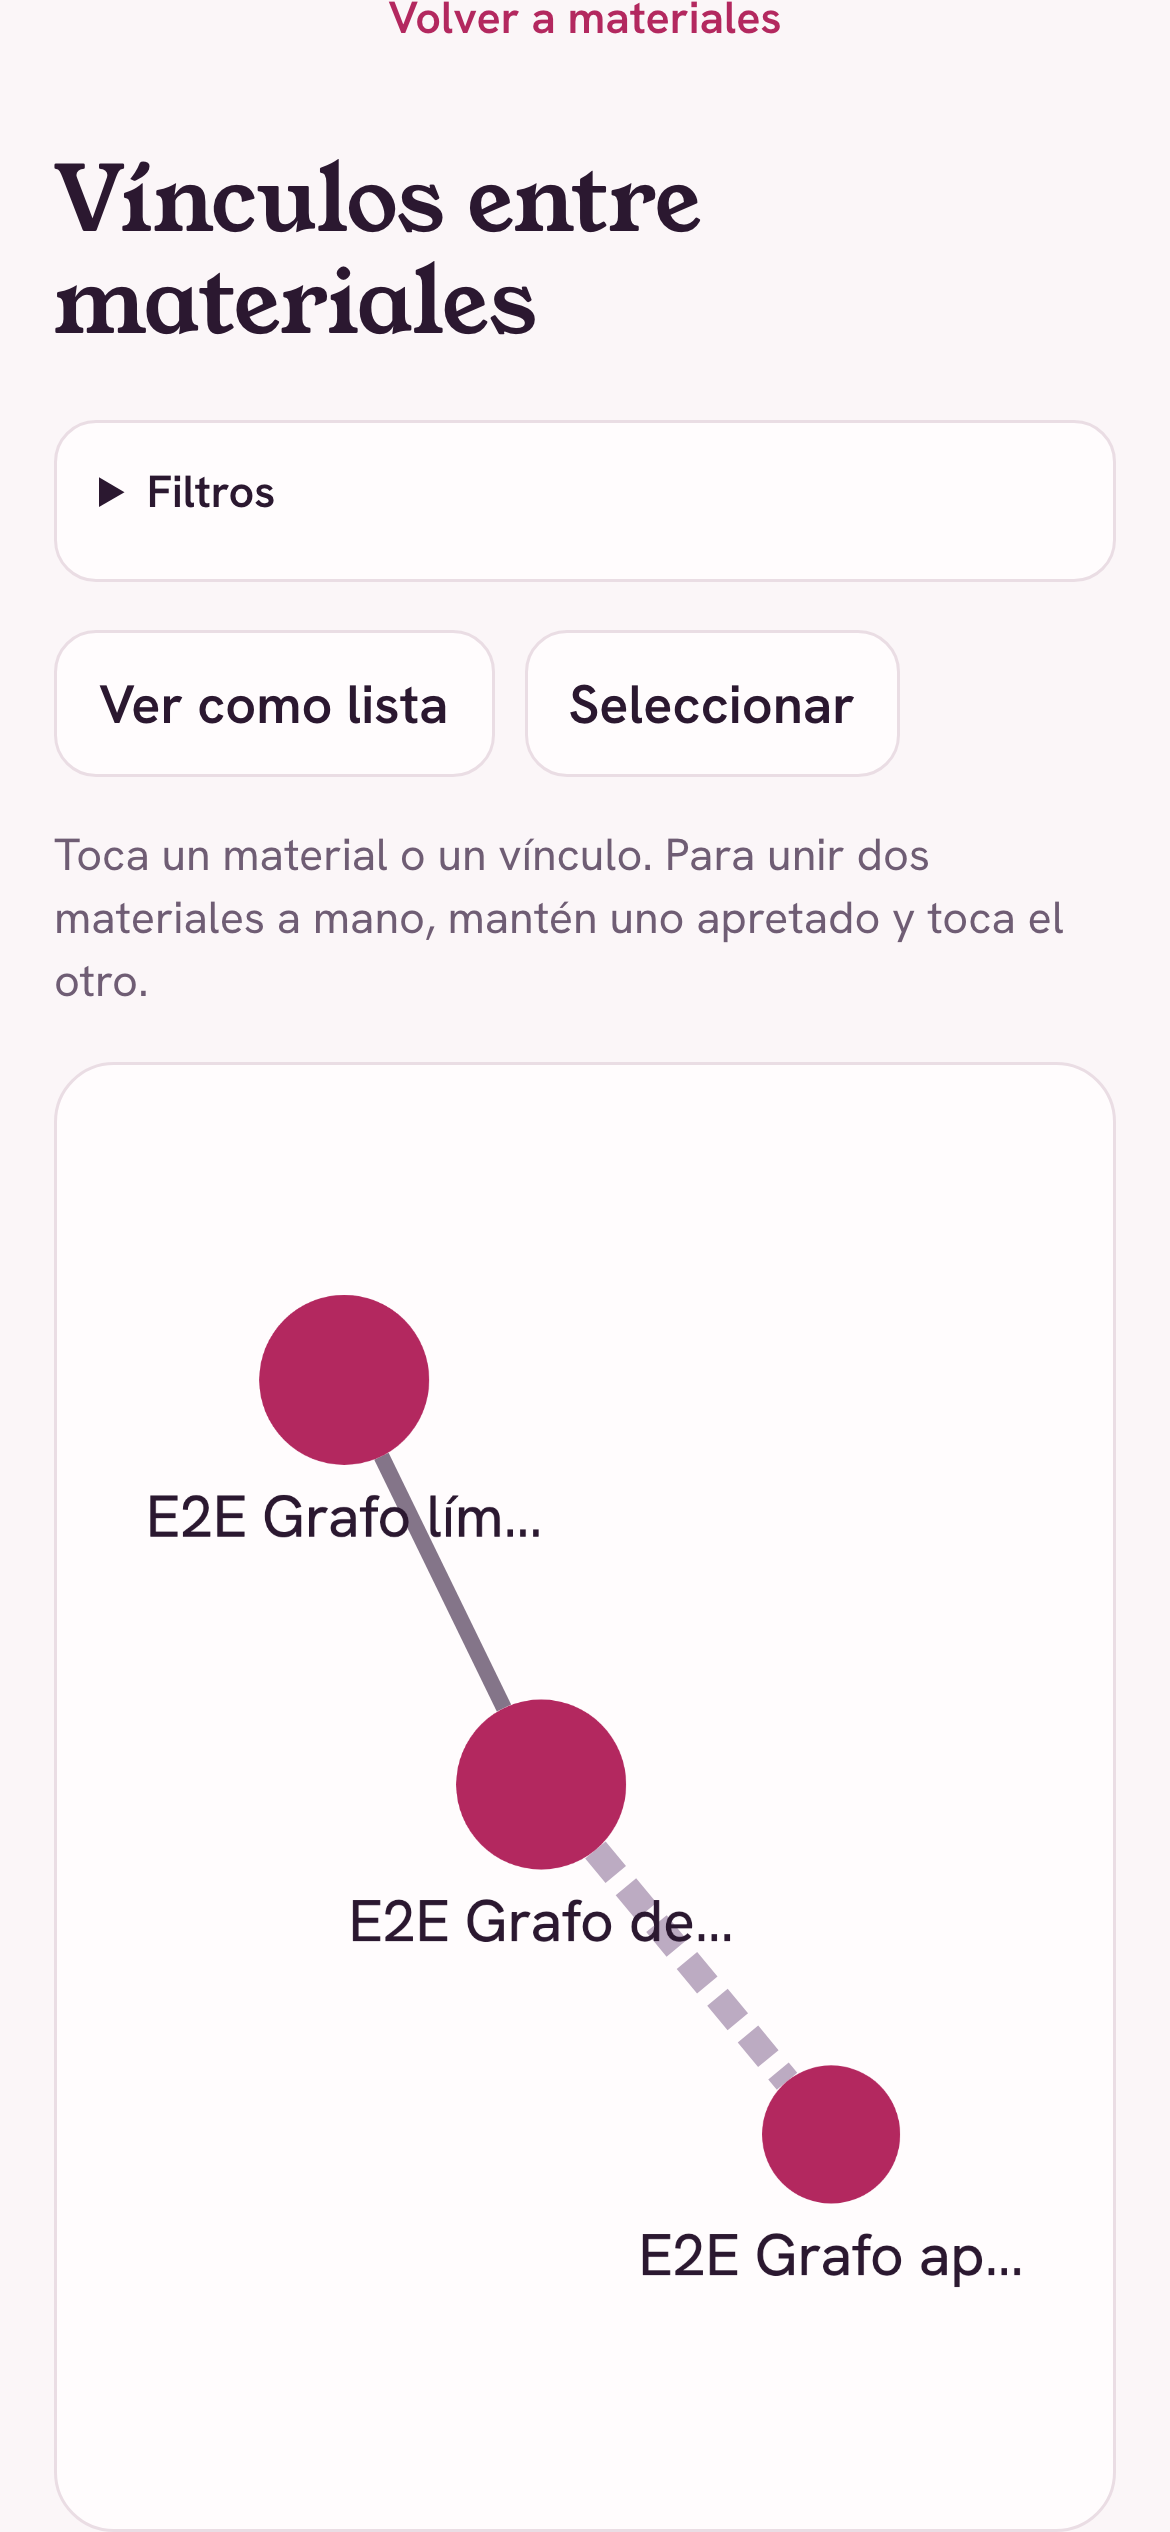
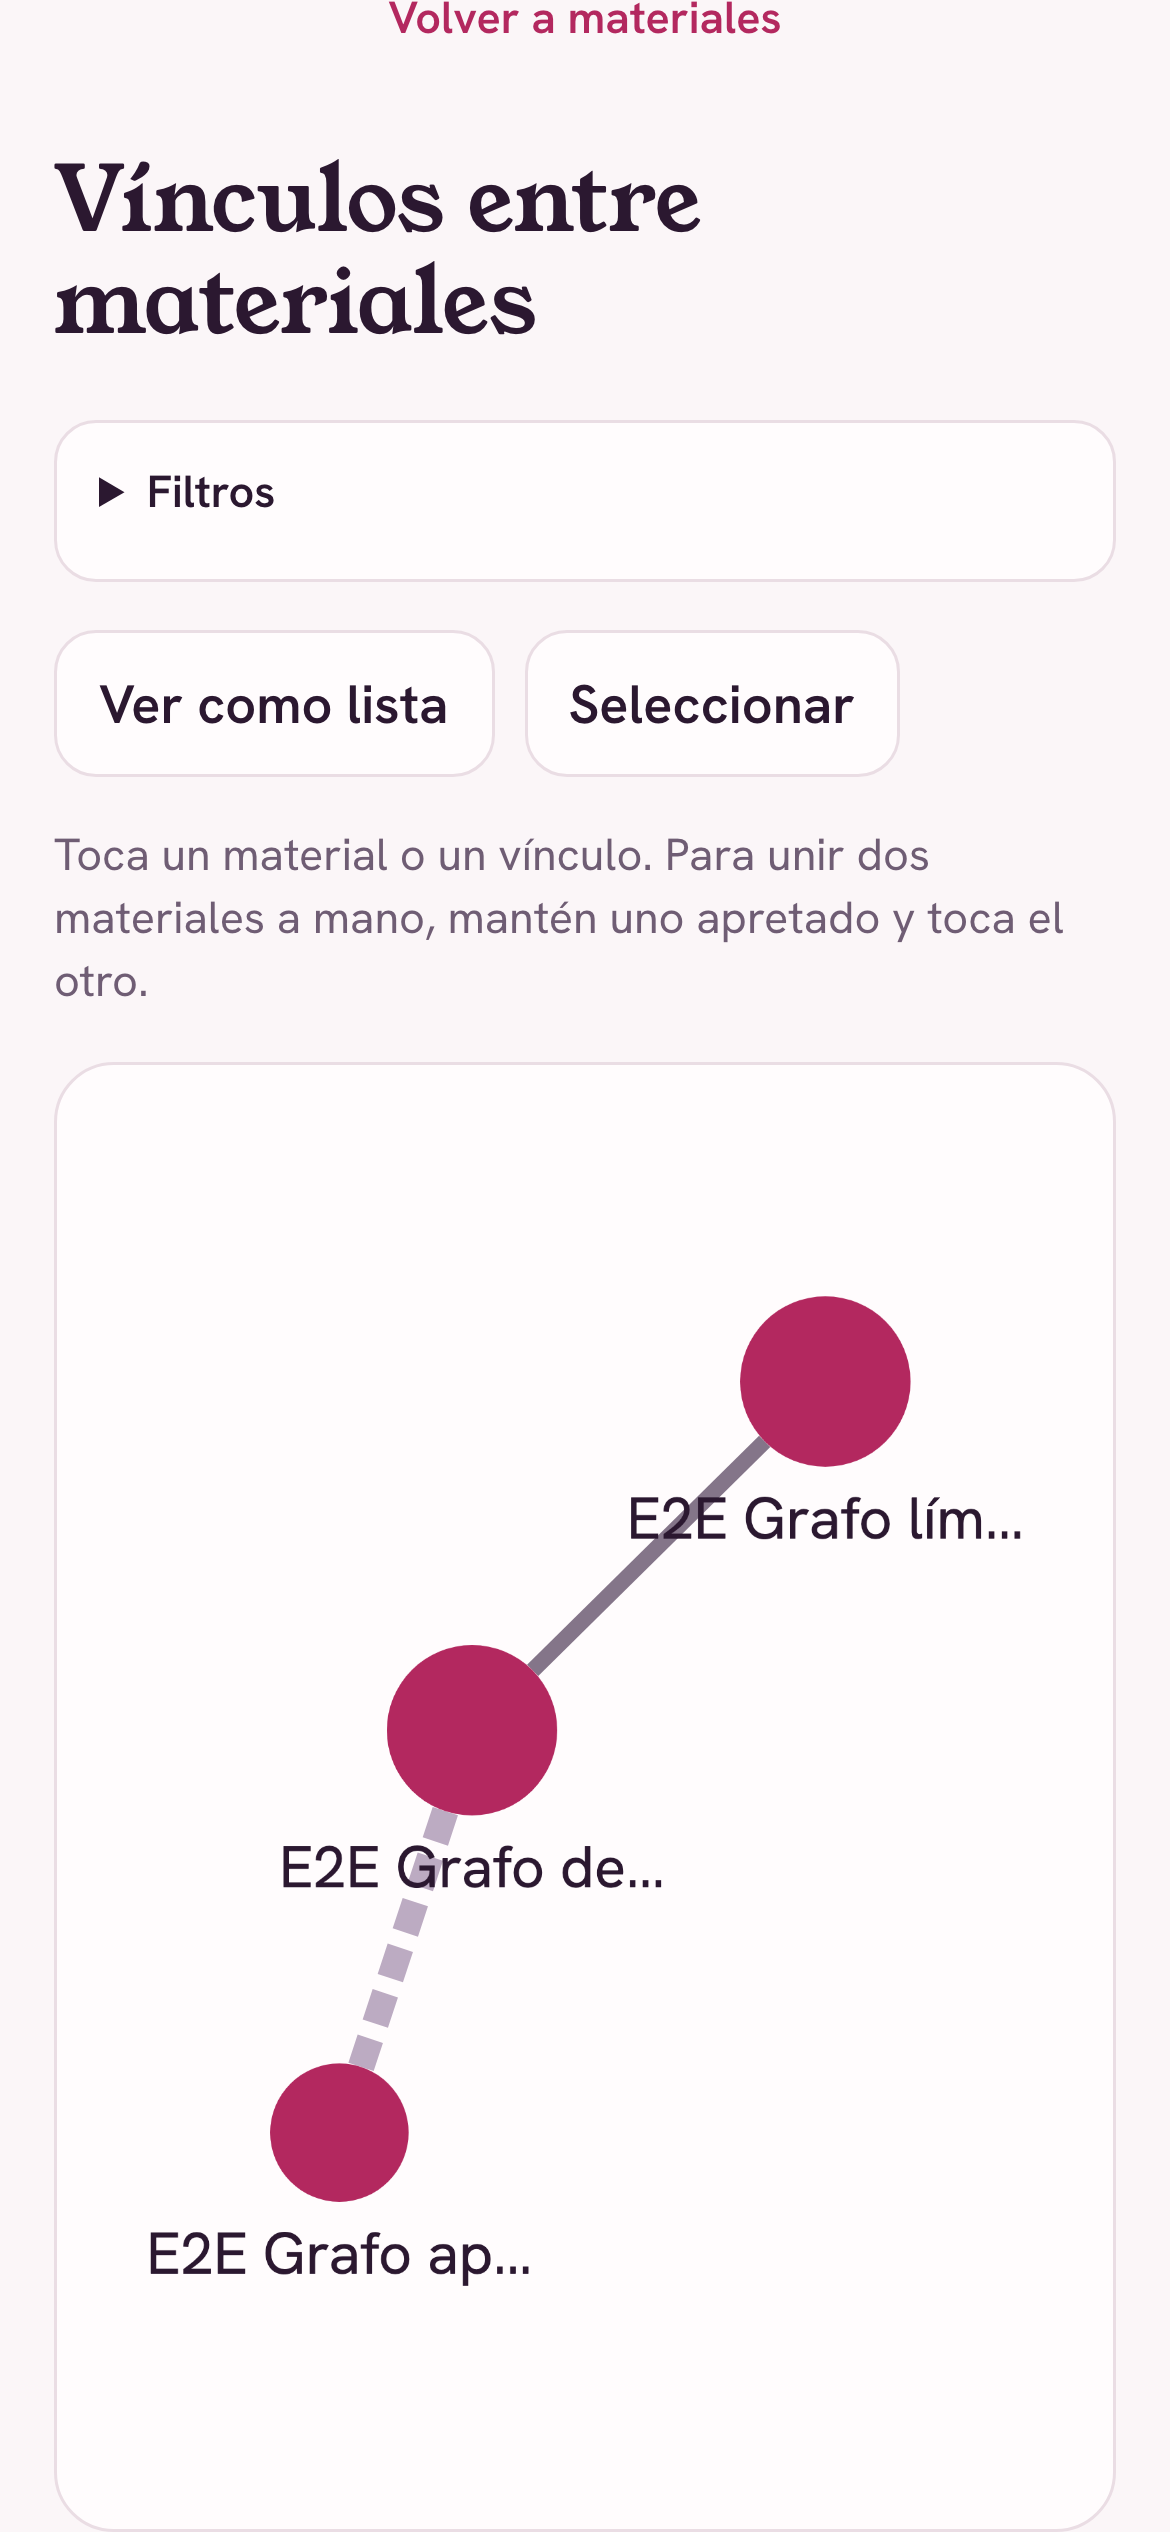
fix: graph list empty state matches what you can do

diff --git a/tests/unit/vista-del-grafo-seleccion.test.tsx b/tests/unit/vista-del-grafo-seleccion.test.tsx
@@ -54,7 +54,18 @@ describe("VistaDelGrafo al elegir materiales", () => {
     render(<VistaDelGrafo materiales={materiales.slice(0, 1)} vinculos={[]} teorias={[]} />)
 
     expect(screen.queryByTestId("grafo")).not.toBeInTheDocument()
+    expect(screen.getByText("Los vínculos aparecen cuando hay al menos dos materiales listos.")).toBeInTheDocument()
     expect(screen.queryByRole("button", { name: "Seleccionar" })).not.toBeInTheDocument()
+  })
+
+  it("says in the list view that there are no links yet and that she can pick materials, when there are two or more", () => {
+    render(<VistaDelGrafo materiales={materiales.slice(0, 2)} vinculos={[]} teorias={[]} />)
+
+    fireEvent.click(screen.getByRole("button", { name: "Ver como lista" }))
+
+    expect(
+      screen.getByText("Todavía no hay vínculos. Puedes elegir materiales para sintetizar una teoría."),
+    ).toBeInTheDocument()
   })
 
   it("toggles materials by tapping their nodes while choosing, and highlights them", () => {

diff --git a/app/(app)/grafo/lista-de-vinculos.tsx b/app/(app)/grafo/lista-de-vinculos.tsx
@@ -10,6 +10,7 @@ import { cn } from "@/lib/utils"
 import { ControlesDeVinculo } from "./controles-de-vinculo"
 
 export const SIN_VINCULOS = "Los vínculos aparecen cuando hay al menos dos materiales listos."
+export const AUN_SIN_VINCULOS = "Todavía no hay vínculos. Puedes elegir materiales para sintetizar una teoría."
 
 const CLASES_DE_ESTADO: Record<string, string> = {
   sugerido: "bg-aviso-fondo text-aviso-tinta",
@@ -24,7 +25,7 @@ export function ListaDeVinculos({
   vinculos: VinculoDelGrafo[]
   titulos: Record<string, string>
 }) {
-  if (vinculos.length === 0) return <p className="text-apagado">{SIN_VINCULOS}</p>
+  if (vinculos.length === 0) return <p className="text-apagado">{AUN_SIN_VINCULOS}</p>
   return (
     <ul className="grid gap-3">
       {vinculos.map((vinculo) => (

diff --git a/tests/unit/lista-de-vinculos.test.tsx b/tests/unit/lista-de-vinculos.test.tsx
@@ -106,6 +106,8 @@ describe("ListaDeVinculos", () => {
   it("says there are no links yet", () => {
     render(<ListaDeVinculos vinculos={[]} titulos={titulos} />)
 
-    expect(screen.getByText("Los vínculos aparecen cuando hay al menos dos materiales listos.")).toBeInTheDocument()
+    expect(
+      screen.getByText("Todavía no hay vínculos. Puedes elegir materiales para sintetizar una teoría."),
+    ).toBeInTheDocument()
   })
 })
